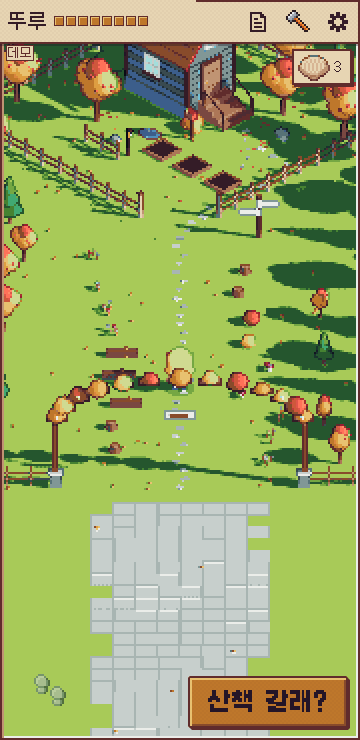
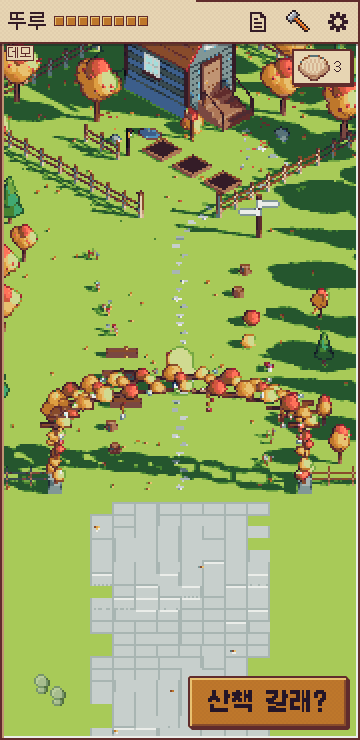
7차 W: 마을 문을 꽃덩굴이 얽힌 나무 시렁으로 (주인 11-21)
Claude-Session: https://claude.ai/code/session_01Tq2y4TM4YC1T1S8gH7WyyS

Changed region(s): [[0.0, 0.4662, 0.8861, 0.6838]]

diff --git a/js/scene3d.js b/js/scene3d.js
@@ -5653,17 +5653,25 @@ var SCENE3D = (function () {
     function wideBuild(g) {
       var V = WIDE_PARTS.village, B = WIDE_PARTS.beach, sc = SEASON_C[SEASON.cur], sn = SEASON.cur, GT = WIDE.GT, BY = WIDE.BEACH_Y, i, k, h, q, y;
       /* ── 마을 구간 (s 18 ~ 46): 마을 문 (아치) · 포장한 길 · 광장 · 가게 터 뒤 낮은 담과 덤불 · 표지판 ── */
-      /* 마을 문: 돌 받침 위 나무 기둥 둘 + 덩굴이 감긴 둥근 아치 (11-21 주인: 붉은 가로대에 처마가 나온 문은 신사 같아 싫다 → 붉은 지붕 · 처마 없이, 꽃 덩굴 아치로) */
-      [-3.45, 3.45].forEach(function (t) { V.push(stBox(19, t, 0.2, 0.36, 0.4, 0.36, EXT_C.stone[1]), stBox(19, t, 0.42, 0.42, 0.05, 0.42, EXT_C.stone[0]), stBox(19, t, 1.2, 0.16, 1.6, 0.16, W[3])); });
-      var arcN = 13, arcBl = [PAL.rose[2] || PAL.rose[1], FIXED.white, PAL.amber[4]];
-      for (i = 0; i < arcN; i++) {   /* 반원을 따라 짧은 나무 토막 (계단식) + 잎 뭉치, 사이사이 꽃 */
-        var aa = Math.PI * (i + 0.5) / arcN, at2 = -3.45 * Math.cos(aa), ay = 2.0 + 1.4 * Math.sin(aa), ah = hash('warch' + i);
-        V.push(stBox(19, at2, ay, 0.14, 0.14, 0.62, W[3]));
-        var lq = wideXZ(19 + ((ah % 3) - 1) * 0.03, at2), lr = 0.26 + (ah >>> 3) % 3 * 0.04;
-        V.push({ g: new T.SphereGeometry(lr, 6, 4), m: M(snapPos(lq[0]), ay + 0.1, snapPos(lq[1]), 0, 0, 0, 1, 0.8, 1), c: sc.leaf[i % 3], tag: 13 + i % 3 });
-        if (i % 2 === 0) V.push({ g: box(0.09, 0.09, 0.09), m: M(snapPos(lq[0] + 0.14), ay + 0.16, snapPos(lq[1] + 0.14)), c: arcBl[(ah >>> 6) % 3] });
+      /* 마을 문 (11-21 주인: 신사 같은 문 X → 덩굴 아치도 아직 이상 → "꽃덩굴이 얽힌 구조물"): 깊이가 있는 나무 덩굴 시렁 —
+         기둥 넷 (앞뒤 0.7 m) · 앞뒤 두 줄의 둥근 살 · 그 사이 가로살 · 기둥 사이 X 살. 잎 뭉치가 살을 덮고 기둥을 타고 오르며, 꽃 송이와 아래로 늘어진 덩굴 */
+      var arcN = 13, arcBl = [PAL.rose[2] || PAL.rose[1], FIXED.white, PAL.amber[4], PAL.dusk[2]], AS = [18.65, 19.35];
+      function vine(sd, td, y, r, k) { var lq = wideXZ(sd, td); V.push({ g: new T.SphereGeometry(r, 6, 4), m: M(snapPos(lq[0]), y, snapPos(lq[1]), 0, k, 0, 1, 0.8, 1), c: sc.leaf[k % 3], tag: 13 + k % 3 }); }
+      function bloom(sd, td, y, k) { var lq = wideXZ(sd, td); V.push({ g: box(0.11, 0.11, 0.11), m: M(snapPos(lq[0]), y, snapPos(lq[1])), c: arcBl[k % 4] }, { g: box(0.05, 0.05, 0.05), m: M(snapPos(lq[0]), y + 0.07, snapPos(lq[1])), c: PAL.amber[4] }); }
+      [-3.45, 3.45].forEach(function (t, ti) {
+        V.push(stBox(19, t, 0.12, 1.0, 0.24, 0.4, EXT_C.stone[1]));
+        AS.forEach(function (as) { V.push(stBox(as, t, 1.12, 0.12, 1.8, 0.12, W[3])); });
+        [0.6, 1.2, 1.8].forEach(function (y, k) { V.push(stBox(19, t, y, 0.7, 0.06, 0.06, W[4])); });
+        for (var c = 0; c < 9; c++) { var ch = hash('wclimb' + ti + c); vine(AS[c % 2] + ((ch % 5) - 2) * 0.05, t + ((ch >>> 4) % 5 - 2) * 0.05, 0.35 + c * 0.2, 0.17 + (ch >>> 8) % 3 * 0.03, c + ti); if (c % 3 === 1) bloom(AS[c % 2] + 0.12, t + (ti ? -0.12 : 0.12), 0.45 + c * 0.2, c + ti); }
+      });
+      for (i = 0; i < arcN; i++) {
+        var aa = Math.PI * (i + 0.5) / arcN, at2 = -3.45 * Math.cos(aa), ay = 2.0 + 1.3 * Math.sin(aa), ah = hash('warch' + i);
+        AS.forEach(function (as) { V.push(stBox(as, at2, ay, 0.1, 0.1, 0.9, W[3])); });
+        V.push(stBox(19, at2, ay + 0.06, 0.82, 0.06, 0.07, W[4]));
+        vine(18.65 + (ah % 3) * 0.05, at2 - 0.2, ay + 0.14, 0.24 + (ah >>> 3) % 3 * 0.04, i); vine(19.35 - ((ah >>> 5) % 3) * 0.05, at2 + 0.2, ay + 0.12, 0.23 + (ah >>> 7) % 3 * 0.04, i + 1); vine(19, at2, ay + 0.2, 0.2, i + 2);
+        bloom(19.42, at2 + ((ah >>> 9) % 5 - 2) * 0.08, ay + 0.02 + (ah >>> 12) % 3 * 0.08, i); if (i % 2) bloom(18.75, at2 + 0.15, ay + 0.3, i + 2);
+        if (i % 3 === 1 && i !== 6) { var hl = 2 + (ah >>> 14) % 3; for (k = 0; k < hl; k++) { q = wideXZ(19.38, at2 + ((k % 2) ? 0.04 : -0.03)); V.push({ g: box(0.07, 0.11, 0.07), m: M(snapPos(q[0]), ay - 0.12 - k * 0.13, snapPos(q[1])), c: sc.leaf[(i + k) % 3], tag: 13 + (i + k) % 3 }); } bloom(19.4, at2, ay - 0.16 - hl * 0.13, i + 1); }
       }
-      V.push(stBox(19.02, 0, 2.9, 0.03, 0.9, 0.03, W[2]), stBox(19.02, 0, 2.3, 0.05, 0.3, 0.9, PAL.paper[1]), stBox(19.05, 0, 2.3, 0.03, 0.1, 0.5, W[3]));   /* 아치 가운데에 걸린 빈 나무패 (글자 없음) */
       /* 포장 (리드 11-21): 줄눈은 판석보다 한 톤 어두운 돌 (풀빛 줄 없음) — 줄마다 깔린 바닥 띠 위에 판석. 마을 길은 |t| ≤ 2.5 안팎의 들쭉날쭉한 가장자리 (그 밖은 풀 어깨),
          광장은 가운데 둥근 고리와 십자를 둘째 돌빛으로. 이끼는 몇 포기만 */
       for (i = 0; i < 29; i++) {

diff --git a/wip/round7/reports/W.md b/wip/round7/reports/W.md
@@ -88,7 +88,7 @@
 3. **도착 자리**: 집 = 울타리 문 바로 밖 (집 쪽을 봄) · 마을 = 광장 어귀 · 바닷가 = 계단 아래 표지판 곁.
 4. **빠른 이동 창은 내 캐릭터가 선 곳의 칩을 숨긴다** (마당 · 숲길 = 집, 마을 · 광장 = 마을, 계단 아래 = 바닷가 — 칩 둘만 보인다). 표지판은 화면에 보이면 멀리서도 눌린다 (걸어가지 않는다).
 5. **숲길 가의 꾸밈** (꽃 · 버섯 · 덤불 · 그루터기 · 통나무) 을 걷는 띠 안에 놓았다. 폰 화면 폭 (6.7 m) 이 띠 폭과 거의 같아 숲이 화면 밖이라 "too empty" 였다. 덤불 · 그루터기 · 통나무는 부딪힌다 (가운데 |t| < 1.3 은 비움).
-5-1. **마을 문** (주인 11-21: "신사 같은 디자인이 마음에 안 든다"): 붉은 가로대 · 처마를 없애고 돌 받침 + 나무 기둥 + 꽃 덩굴이 감긴 둥근 아치로. 빠른 이동 칩의 마을 그림도 문 대신 집 두 채로.
+5-1. **마을 문** (주인 11-21: "신사 같은 디자인이 마음에 안 든다"): 붉은 가로대 · 처마를 없애고 꽃덩굴이 얽힌 나무 시렁으로 (기둥 넷 · 앞뒤 두 줄의 둥근 살과 가로살 · 잎이 살을 덮고 기둥을 타고 오르며 꽃과 늘어진 덩굴 — 두 번째 말씀 "꽃덩굴이 얽힌 구조물"). 빠른 이동 칩의 마을 그림도 문 대신 집 두 채로.
 6. **바깥 기본 배율 2/3** (리드의 결정): 바깥에 나가면 방보다 한 칸 멀리서 본다. 두 손가락으로 4/3 배까지 키울 수 있다 (리드는 2 배까지를 말했다 — 멈춤 칸을 늘려야 해서 넣지 않았다).
 6-1. **앞보기** 는 가로 1.2 · 세로 1.5 m. 스틱을 놓으면 화면은 그 자리에 선다 (가운데로 되돌아오지 않는다).
 7. **밤의 모래** 는 어두운 밤색으로 읽힌다 (풀과 구별되게 모래색을 붉은 쪽으로 골랐다). 팔레트 스냅 때문에 낮의 모래는 아주 밝은 크림색이다.
